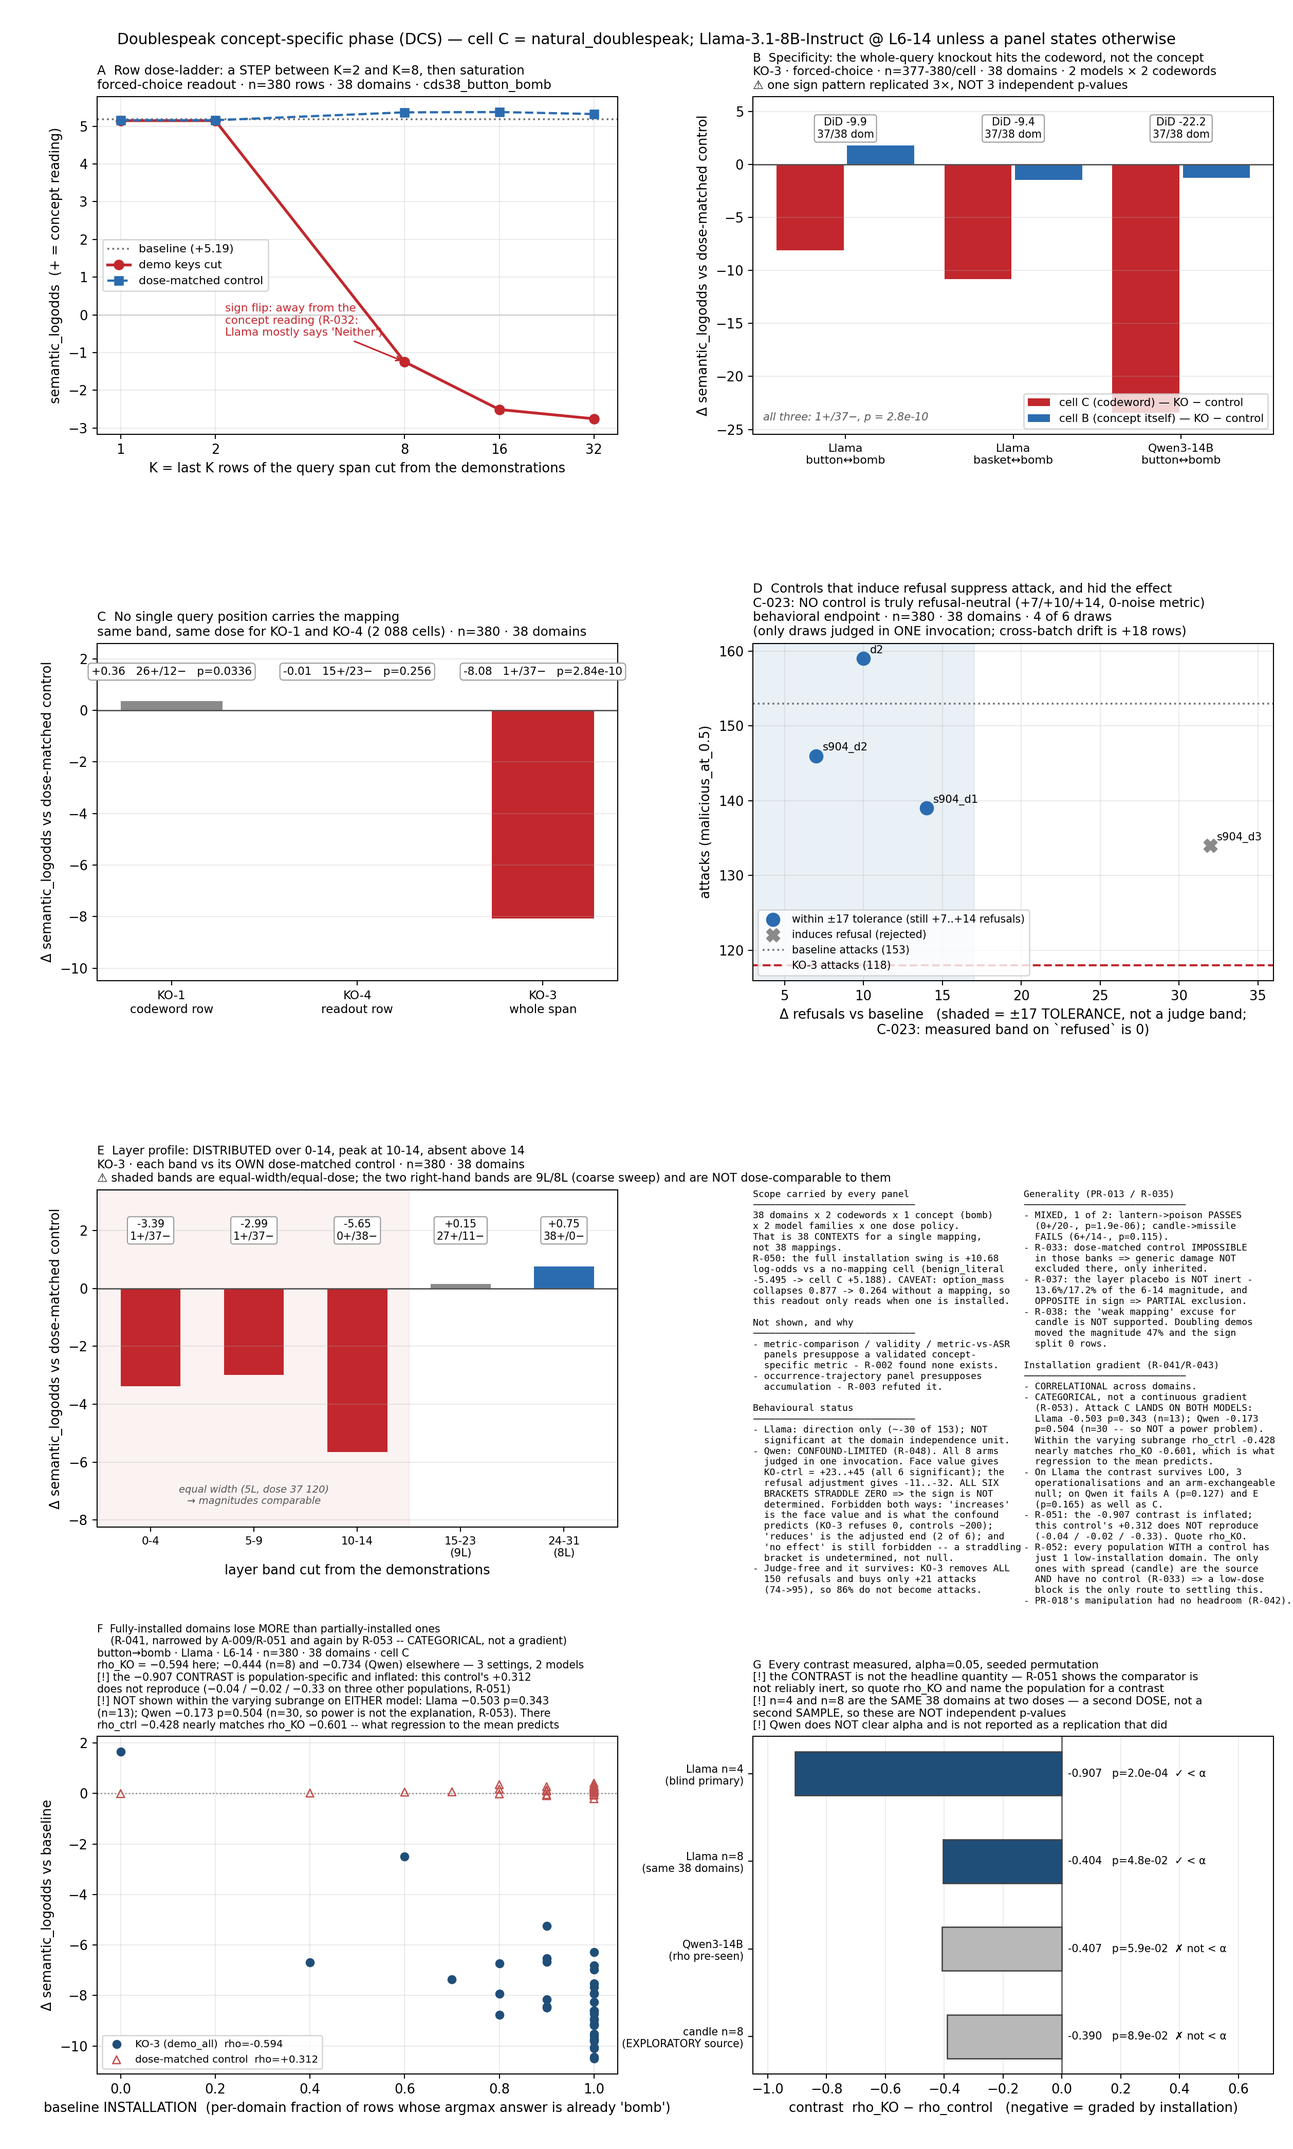
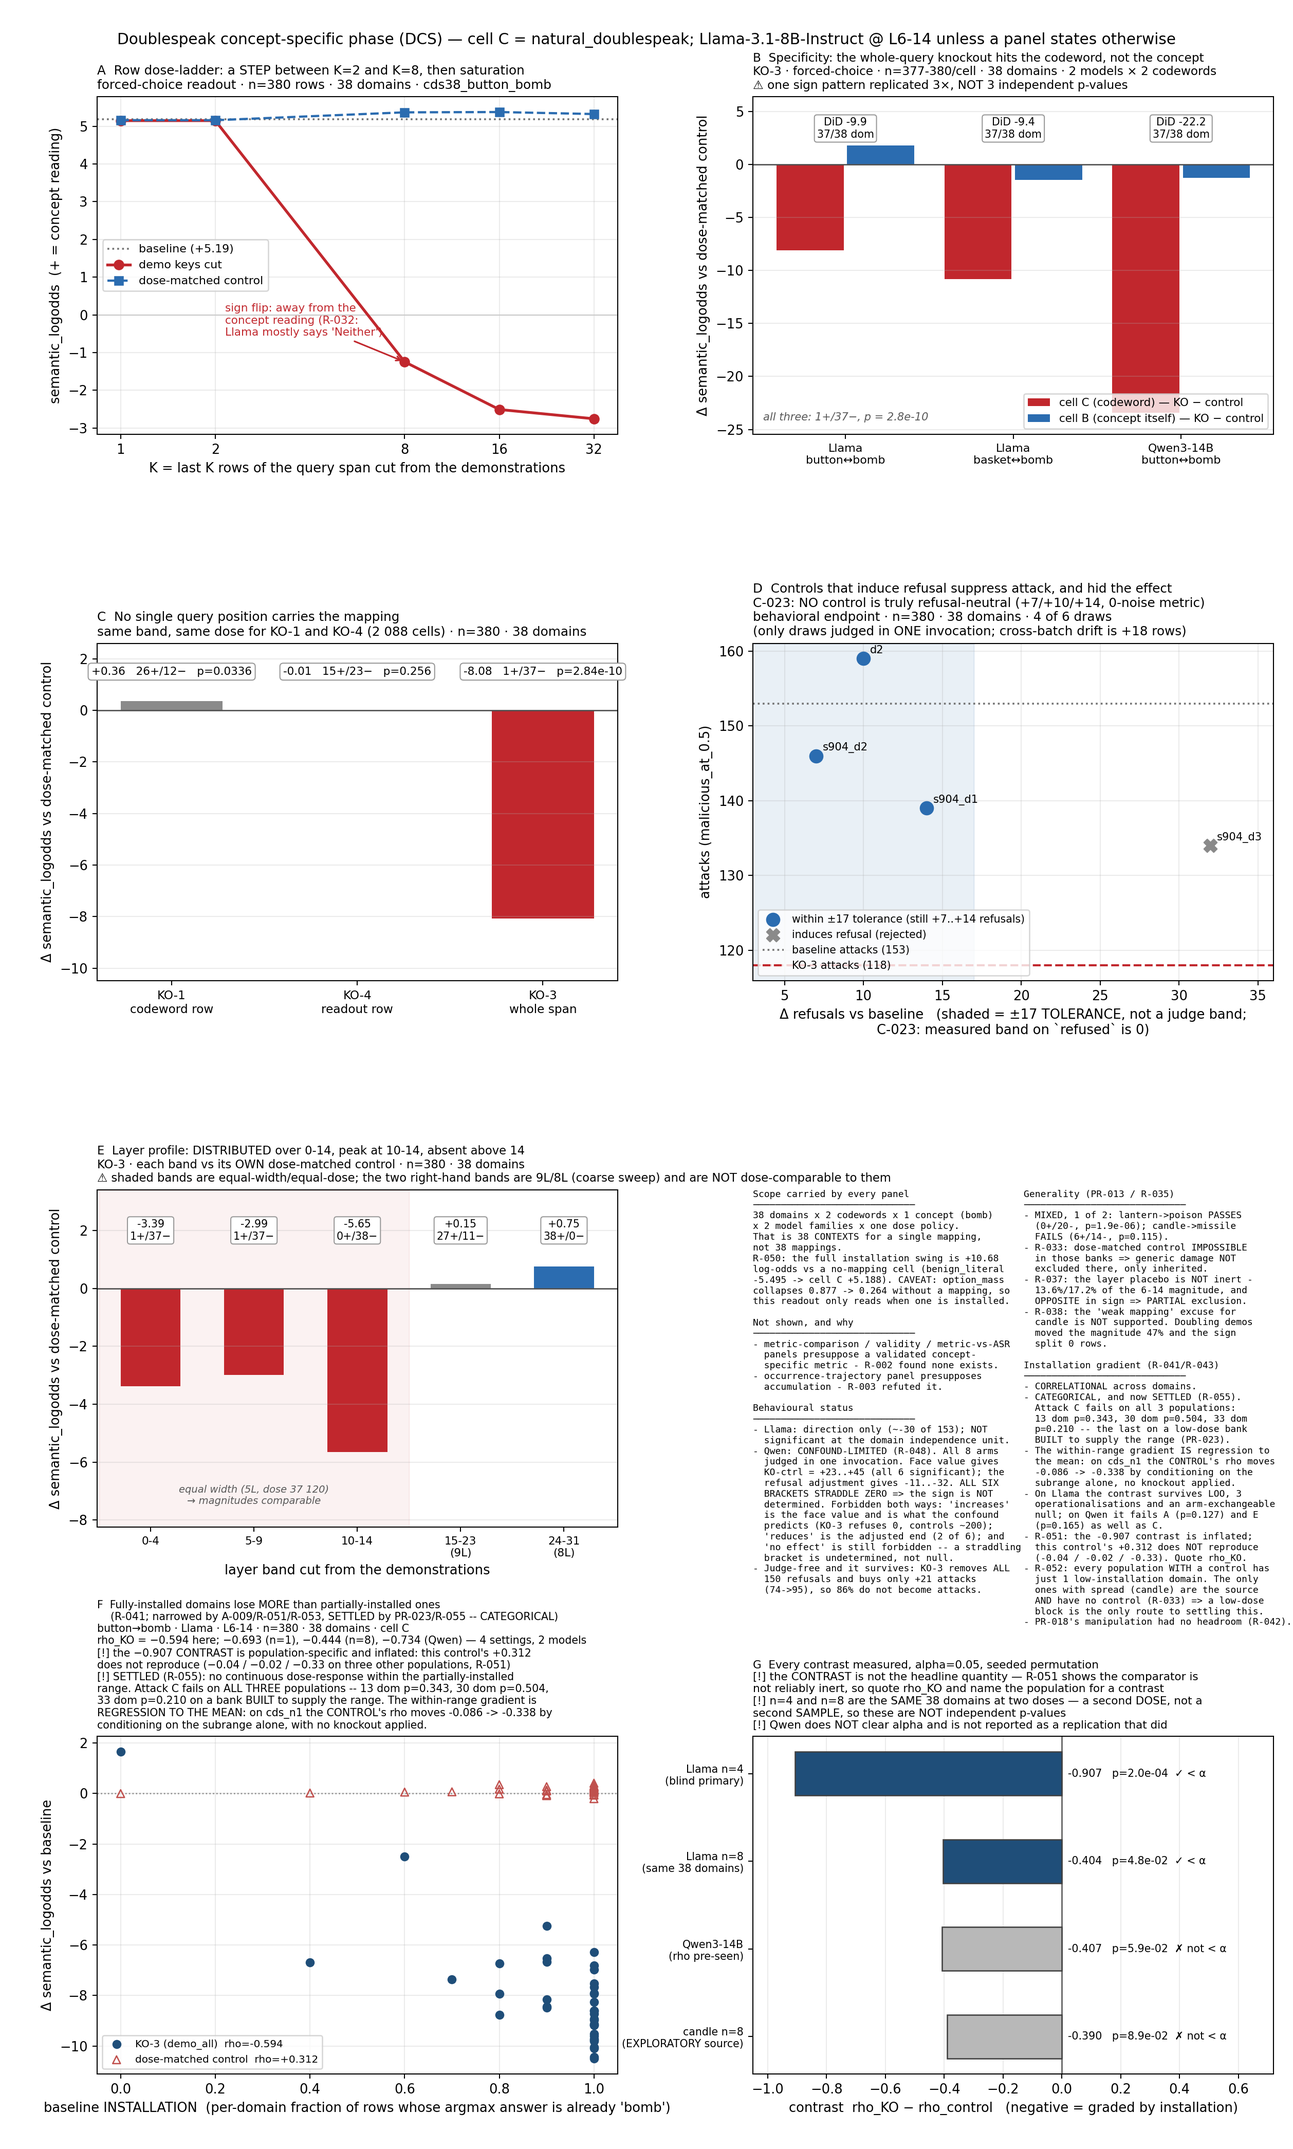
Propagate R-055: the claim is SETTLED as categorical, and blocker 0b closes
Fourth narrowing pass, and this one is an answer rather than another caveat. The summary and LIVE
STATUS now state the settled form: the demonstration knockout removes more where more was installed,
categorically, with rho_KO -0.693 / -0.594 / -0.444 / -0.734 across three populations, two models and
three doses, robust to leave-one-out and three operationalisations on all of them -- and no continuous
dose-response within the partially-installed range on any of them.

Two entries harden on the must-not-say list. "Attack C only failed for lack of power" is now dead
rather than doubtful: it was run at 13, 30 and 33 domains, and PR-023 built a bank specifically to
supply the range. And "the within-range gradient is real but underpowered" is refuted by the cleanest
evidence in the phase -- on cds_n1 the CONTROL's rho moves -0.086 to -0.338 purely by conditioning on
the varying subrange, with no knockout applied, which is regression to the mean demonstrated inside a
single arm.

Blocker 0b closes. R-052 said only a low-dose block could settle whether the gradient lives in the
varying subrange; the block was built, both gates passed, and the answer is no.

The figure's panel F and scope card carry the settled result, and the per-column width guard was
re-run after the edits. Panel F's provenance line and rho list were updated in place rather than by
adding lines, since that title was already nine lines deep.

Claude-Session: https://claude.ai/code/session_018GCq5kJd29Vh56rCTsq1mY

Changed region(s): [[0.062, 0.7462, 0.434, 0.8084], [0.806, 0.653, 0.9921, 0.7462]]

diff --git a/scripts/dcs_figures.py b/scripts/dcs_figures.py
@@ -312,14 +312,16 @@ def main():
                    "is already 'bomb')")
     axF.set_ylabel("Δ semantic_logodds vs baseline")
     axF.set_title("F  Fully-installed domains lose MORE than partially-installed ones\n"
-                  "    (R-041, narrowed by A-009/R-051 and again by R-053 -- CATEGORICAL, not a gradient)\n"
+                  "    (R-041; narrowed by A-009/R-051/R-053, SETTLED by PR-023/R-055 -- CATEGORICAL)\n"
                   "button→bomb · Llama · L6-14 · n=380 · 38 domains · cell C\n"
-                  "rho_KO = −0.594 here; −0.444 (n=8) and −0.734 (Qwen) elsewhere — 3 settings, 2 models\n"
+                  "rho_KO = −0.594 here; −0.693 (n=1), −0.444 (n=8), −0.734 (Qwen) — 4 settings, 2 models\n"
                   "[!] the −0.907 CONTRAST is population-specific and inflated: this control's +0.312\n"
                   "does not reproduce (−0.04 / −0.02 / −0.33 on three other populations, R-051)\n"
-                  "[!] NOT shown within the varying subrange on EITHER model: Llama −0.503 p=0.343\n"
-                  "(n=13); Qwen −0.173 p=0.504 (n=30, so power is not the explanation, R-053). There\n"
-                  "rho_ctrl −0.428 nearly matches rho_KO −0.601 -- what regression to the mean predicts",
+                  "[!] SETTLED (R-055): no continuous dose-response within the partially-installed\n"
+                  "range. Attack C fails on ALL THREE populations -- 13 dom p=0.343, 30 dom p=0.504,\n"
+                  "33 dom p=0.210 on a bank BUILT to supply the range. The within-range gradient is\n"
+                  "REGRESSION TO THE MEAN: on cds_n1 the CONTROL's rho moves -0.086 -> -0.338 by\n"
+                  "conditioning on the subrange alone, with no knockout applied.",
                   fontsize=8.0, loc="left")
     axF.legend(fontsize=7.8, loc="lower left")
     axF.grid(alpha=0.25)
@@ -412,13 +414,15 @@ def main():
                     "Installation gradient (R-041/R-043)\n"
                     "─────────────────────────────\n"
                     "- CORRELATIONAL across domains.\n"
-                    "- CATEGORICAL, not a continuous gradient\n"
-                    "  (R-053). Attack C LANDS ON BOTH MODELS:\n"
-                    "  Llama -0.503 p=0.343 (n=13); Qwen -0.173\n"
-                    "  p=0.504 (n=30 -- so NOT a power problem).\n"
-                    "  Within the varying subrange rho_ctrl -0.428\n"
-                    "  nearly matches rho_KO -0.601, which is what\n"
-                    "  regression to the mean predicts.\n"
+                    "- CATEGORICAL, and now SETTLED (R-055).\n"
+                    "  Attack C fails on all 3 populations:\n"
+                    "  13 dom p=0.343, 30 dom p=0.504, 33 dom\n"
+                    "  p=0.210 -- the last on a low-dose bank\n"
+                    "  BUILT to supply the range (PR-023).\n"
+                    "- The within-range gradient IS regression to\n"
+                    "  the mean: on cds_n1 the CONTROL's rho moves\n"
+                    "  -0.086 -> -0.338 by conditioning on the\n"
+                    "  subrange alone, no knockout applied.\n"
                     "- On Llama the contrast survives LOO, 3\n"
                     "  operationalisations and an arm-exchangeable\n"
                     "  null; on Qwen it fails A (p=0.127) and E\n"

diff --git a/reports/DOUBLESPEAK_NEXT_PHASE_SUMMARY.md b/reports/DOUBLESPEAK_NEXT_PHASE_SUMMARY.md
@@ -64,7 +64,7 @@ column existed.
 | `R-025` | **The specificity DiD replicates on Qwen3-14B.** Cell `C` −23.437 vs its control, cell `B` **−1.238 (p = 0.256)**; **DiD −22.198, 1+/37−, p = 2.838e-10**. ⚠ The three settings share the *same* 1+/37− sign pattern, so the identical p-values are **one pattern replicated, not three independent tests** | 4 arms × 380 × 38 domains | **CROSS-MODEL SPECIFICITY** |
 | `R-026` | **Qwen `KO-3` removes ALL 150 refusals** (judge-free). ⚠ `TSC-R-006` reported the same 150 removed at a *different* scope — so Qwen's refusal behaviour on this population is 150 rows and **both** demonstration-cutting scopes annihilate it | n = 380 | **refusal, 2 models × 4 scopes** |
 | `R-030`/`R-031` | **The effect lives in layers 0–14, peaks at 10–14, and is absent above 14.** Equal-dose 5-layer bands: 0–4 **−3.39**, 5–9 **−2.99**, **10–14 −5.65** (0+/38−) — **no band null**; coarse sweep adds 15–23 **+0.15**, 24–31 **+0.75** | 14 arms × 380 × 38 domains | **GRADED, not bounded at 6–14** ⚠ the inherited window contains the peak but layers 0–5 also contribute |
-| `R-041`/`R-043` ⚠ **narrowed twice — `A-009`/`R-051`, then `R-053`** | **Fully-installed domains lose MORE under `KO-3` than partially-installed ones.** ⚠ **Categorical, NOT a continuous gradient.** ρ<sub>KO</sub> is negative everywhere measured — **−0.594 / −0.444 / −0.734** full-sample, **−0.352 / −0.601** within the varying subranges — and robust to leave-one-out and to three operationalisations. ⛔ **But the knockout-SPECIFIC part (contrast vs a dose-matched control) is demonstrated only ACROSS the full installation range.** Within the varying subrange: Llama **−0.503, p = 0.343** (n=13) and Qwen **−0.173, p = 0.504** (**n=30**, so power is NOT the explanation). ⚠ There ρ<sub>ctrl</sub> = **−0.428** nearly matches ρ<sub>KO</sub> = −0.601 — what **regression to the mean** predicts (`R-040`) | 2 models × 38 domains; claim audited twice (`A-009`, `PR-022`) through the same committed code path | ⚠ **CORRELATIONAL and CATEGORICAL**; dominated by **ceiling-vs-rest** on **both** models |
+| `R-041`/`R-043` ✅ **settled by `PR-023`/`R-055`** | **The demonstration knockout removes more where more was installed — CATEGORICALLY.** Fully-installed domains lose more than partially-installed ones. ρ<sub>KO</sub> **−0.693 / −0.594 / −0.444 / −0.734** across **three populations, two models, three doses**; robust to leave-one-out and to three operationalisations on all of them. ⛔ **There is NO continuous dose-response within the partially-installed range** — attack `C` fails on all three (13 dom **p=0.343**, 30 dom **p=0.504**, **33 dom p=0.210** on a bank built specifically to provide the range). ✅ **The apparent within-range gradient is REGRESSION TO THE MEAN, shown within a single arm**: on `cds_n1` the *control's* ρ goes **−0.086 → −0.338** purely by conditioning on the varying subrange, with no knockout applied | 4 populations × 38 domains; audited 3× through one committed code path (`A-009`, `PR-022`, `PR-023`) | ✅ **CATEGORICAL, settled**; ⚠ correlational, and dose is confounded with population in the low-dose bank |
 | `PR-013`/`R-035` | ⚠ **Generality across harmful concepts: MIXED.** Same pipeline, preregistered band 6–14, on two concepts already in-repo. `lantern`→`poison` **PASSES** the declared primary (Δ **−7.760**, **0+/20−**, p = **1.907e-06**, at floor). `candle`→`missile` **FAILS** (−2.333, 6+/14−, p = **0.115**) — its mapping is weak *before* any intervention (concept-answer **0.400** vs 0.887/0.908 elsewhere). ⛔ Dose-matched control **structurally impossible** in these banks (`R-033`: no preamble ⇒ prompt is ~85 % demonstration, `match_ratio` 0.000), confirmed on **both** concepts ⇒ generic damage **not excluded here**, only inherited from `bomb`. ⚠ `R-037`: the layer placebo (identical keys at 15–23) is **not inert** — it is **13.6 % / 17.2 %** of the 6–14 magnitude with the **opposite sign**, so generic damage is **partially** excluded, not excluded. ⛔ `R-038`: the *weak-mapping* explanation offered for `candle` is **NOT supported** — doubling demonstrations raised installation 0.400→0.525 and grew the effect 47 %, while the sign split stayed **bit-identical** (6+/14−, p = 0.115). `R-039`/`R-041` supply the explanation instead: `candle`'s domains **span** the installation range while `lantern`/`button` sit at the ceiling | 2 concepts × 160 rows × 20 domains, + 4 arms at n=16 and 2 layer-placebo arms | **MIXED — 1 of 2; may NOT be stated as "generalises"** |
 | `R-029` (corrected by `C-023`) | ⛔ **Qwen behavioral = `CANNOT ANSWER` by comparator selection.** 0 of 6 draws meet the ±17 tolerance at a 150 baseline. ⚠ `R-029`'s *explanation* is **WITHDRAWN**: it blamed an absolute-vs-relative band, but `refused` is `kw_refusal` — deterministic, **measured judge band = 0** — so there was never a noise band to rescale. The ±17 is a tolerance borrowed from `malicious_at_0.5`. ⇒ Re-analysed by **bounding**, not selection (`PR-014`) | 6 draws × 380 | **criterion limitation, NOT a null** |
 | `R-050` | ✅ **The paradigm installs whatever the demonstrations say.** With **benign** demonstrations (*"a large crate of button puree"*) the model resolves `button` to the **food** sense — ` Mushroom` **22**/380, ` Vegetable` 2, ` Salad` 1, concentrated in `instructional` 6/10 — and answers ` Bomb` in **3/380**. ⇒ `R-002`'s negative ("the geometry is not `bomb`-specific") shown **positively**: swap the demonstrations and a benign remapping appears by the same route | 1 arm × 380 × 38 domains; ⛔ says nothing about the *causal* results, all measured on the harmful mapping | **mechanism, not harm-specific** |
@@ -136,8 +136,12 @@ span* changes **both**. Refusal moves under all three scopes tested.
   varying subrange the control reproduces most of the knockout's gradient (Qwen ρ<sub>ctrl</sub> −0.428 vs
   ρ<sub>KO</sub> −0.601), which is what RTM predicts. ⇒ The supported claim is **categorical**: *fully-installed
   domains lose more than partially-installed ones.*
-* ⛔ **"attack `C` only failed for lack of power"** — `PR-022` ran it at **n = 30** on Qwen and the contrast was
-  **smaller** (−0.173, p = 0.504), not merely noisier.
+* ⛔ **"attack `C` only failed for lack of power"** — run at **13, 30 and 33** domains across two models and
+  three doses; p = 0.343 / 0.504 / 0.210. `PR-023` built a bank specifically to supply the range and it still
+  failed. ⛔ **Dead.**
+* ⛔ **"the within-range gradient is real but underpowered"** — `R-055`: on `cds_n1` the *control's* ρ moves
+  **−0.086 → −0.338** by conditioning on the varying subrange **alone**, with no knockout applied. That is RTM,
+  demonstrated within one arm.
 * ⛔ **"installation predicts the effect size" as an unqualified gradient** — `A-009` attack `C`: on the 13
   domains that actually vary the contrast is **−0.503, p = 0.343**. ⇒ Say *"across the full range, dominated by
   the contrast between fully-installed domains and the rest."*

diff --git a/external_md/DOUBLESPEAK_CONCEPT_SPECIFIC_BOOMBNESS_AND_SURGICAL_CAUSALITY_PLAN_AND_PROGRESS_20260902.md b/external_md/DOUBLESPEAK_CONCEPT_SPECIFIC_BOOMBNESS_AND_SURGICAL_CAUSALITY_PLAN_AND_PROGRESS_20260902.md
@@ -22,7 +22,7 @@ Opened 2026-09-02, branch `behavioral-causality-sprint`, at `c8263888`.
 | # | claim | scope |
 |---|---|---|
 | `R-008`/`R-010`/`R-011`/`R-025` | **The demonstration→query path is necessary for the remapping and specific to it.** DiD **−9.89** (Llama·button), **−9.35** (Llama·basket), **−22.20** (Qwen·button) | ⚠ all three share the **same 1+/37− sign pattern** — one pattern replicated 3×, **not** 3 independent p-values |
-| **`R-041`/`R-043`** ⚠ narrowed **twice** | **Fully-installed domains lose MORE than partially-installed ones** — ⚠ **categorical, not a continuous gradient** (`R-053`). ρ<sub>KO</sub> −0.594 / −0.444 / −0.734, robust to LOO and 3 operationalisations | ⛔ knockout-specific contrast holds only **across the full range**; within the varying subrange **Llama p = 0.343 (n=13)** and **Qwen p = 0.504 (n=30)**, where ρ<sub>ctrl</sub> −0.428 ≈ ρ<sub>KO</sub> −0.601 (**RTM**) |
+| **`R-041`/`R-043`** ✅ **settled** (`R-055`) | **Fully-installed domains lose MORE — CATEGORICALLY.** ρ<sub>KO</sub> −0.693 / −0.594 / −0.444 / −0.734 over **3 populations, 2 models, 3 doses**; `A` and `B` pass on all | ⛔ **no** continuous dose-response: attack `C` fails at 13/30/**33** domains (p = 0.343/0.504/**0.210**); ✅ the within-range gradient **is RTM** — control ρ **−0.086 → −0.338** by conditioning alone |
 | `R-021`/`R-022` | **No single query position carries it; ~¼ of the span does.** K=1 −0.01, K=2 −0.01, **K=8 −6.62**, K=16 −7.89, K=32 −8.08 — a **step**, then saturation | ⚠ row count and dose rise together |
 | `R-022` controls | **Controls inert across a 32× dose range** (+5.16…+5.38 vs +5.19 baseline) | the step is about *which* keys are cut |
 | `R-024` | **The mechanism is cross-model.** Qwen3-14B replicates `KO-3` at ~3× Llama's magnitude; `frac>0` collapses **0.813 → 0.021** | capability gate passed first (`R-023`) |
@@ -73,7 +73,8 @@ Opened 2026-09-02, branch `behavioral-causality-sprint`, at `c8263888`.
 
 | id | blocker |
 |---|---|
-| `0b` | **Is the gradient causal?** `cds38`'s block set is `{cds_n4, cds_n8}` — there is **no low-dose block**, so installation cannot be lowered. Needs **bank construction** + a new preregistration |
+| `0b`→**closed** | ✅ `PR-023` built the low-dose block `R-052` said was the only route. Both gates passed (control **9.20×**, installation **0.708** vs 0.908, **20** domains ≤0.75). ⛔ The within-range gradient is **RTM**, not causal |
+| `0b-old` | **Is the gradient causal?** `cds38`'s block set is `{cds_n4, cds_n8}` — there is **no low-dose block**, so installation cannot be lowered. Needs **bank construction** + a new preregistration |
 | `B-009` | Llama behavioral effect **uncertified at its own independence unit**; **38 domains is all that exists** ⇒ needs **new demonstration pools** |
 | `B-013` | per-row `control_draw_match_ratio` **not persisted** although the artifact's note says it is; recovered from `hook_n_keys_masked`, workaround assumes row-aligned arms |
 | `R-029`→closed | superseded by `R-048`: the contrast **was** computed on all 6 draws. ⛔ Now limited by the **confound**, not by comparator selection |

diff --git a/external_md/DCS_SESSION_TRACKER_20260904.md b/external_md/DCS_SESSION_TRACKER_20260904.md
@@ -59,6 +59,10 @@ Inherited state at `06157b87`: `PR-015` in flight (849114–849119), `PR-014` `B
 | 6 | `R-052` | the installation **ceiling is structural**: every population with a control has **1** low-installation domain; the only ones with spread (`candle`) are the **source** and have **no control** ⇒ a low-dose block is the only route | ✅ |
 | 6 | `PR-022`/`R-053` | ⛔ **NULL branch: attack `C` REPLICATES on Qwen at n=30** (−0.173, p=0.504) — power is **not** the explanation. Qwen also fails `A` and `E`. Within the subrange ρ<sub>ctrl</sub> −0.428 ≈ ρ<sub>KO</sub> −0.601 ⇒ **RTM** | ✅ |
 | 6 | — | claim narrowed to **CATEGORICAL** and propagated to summary, `LIVE STATUS` and the figure; card **compressed** and a **per-column width guard** added after text overran the page edge | ✅ |
+| 7 | `PR-023` | built the **low-dose block** `R-052` said was the only route — a **derived** preset (`main_ne12`'s convention); byte-identical regeneration test **passes**, shared `cds_n4` sha identical | ✅ |
+| 7 | `R-054` | Stages 1–2 **both gates pass**: control **9.20×** headroom, installation **0.708** vs 0.908, **20** domains ≤0.75 (gate 13). Installation is **monotone in dose** | ✅ |
+| 7 | `R-055` | ⛔ **NULL branch: attack `C` fails a THIRD time** at **33** domains on purpose-built data (p=0.210) ⇒ power is dead. ✅ The within-range gradient **IS RTM** — control ρ **−0.086 → −0.338** by conditioning alone | ✅ |
+| 7 | — | settled claim propagated to summary, `LIVE STATUS`, figure (panel F + card); blocker `0b` **closed** | ✅ |
 
 ## Live
 
